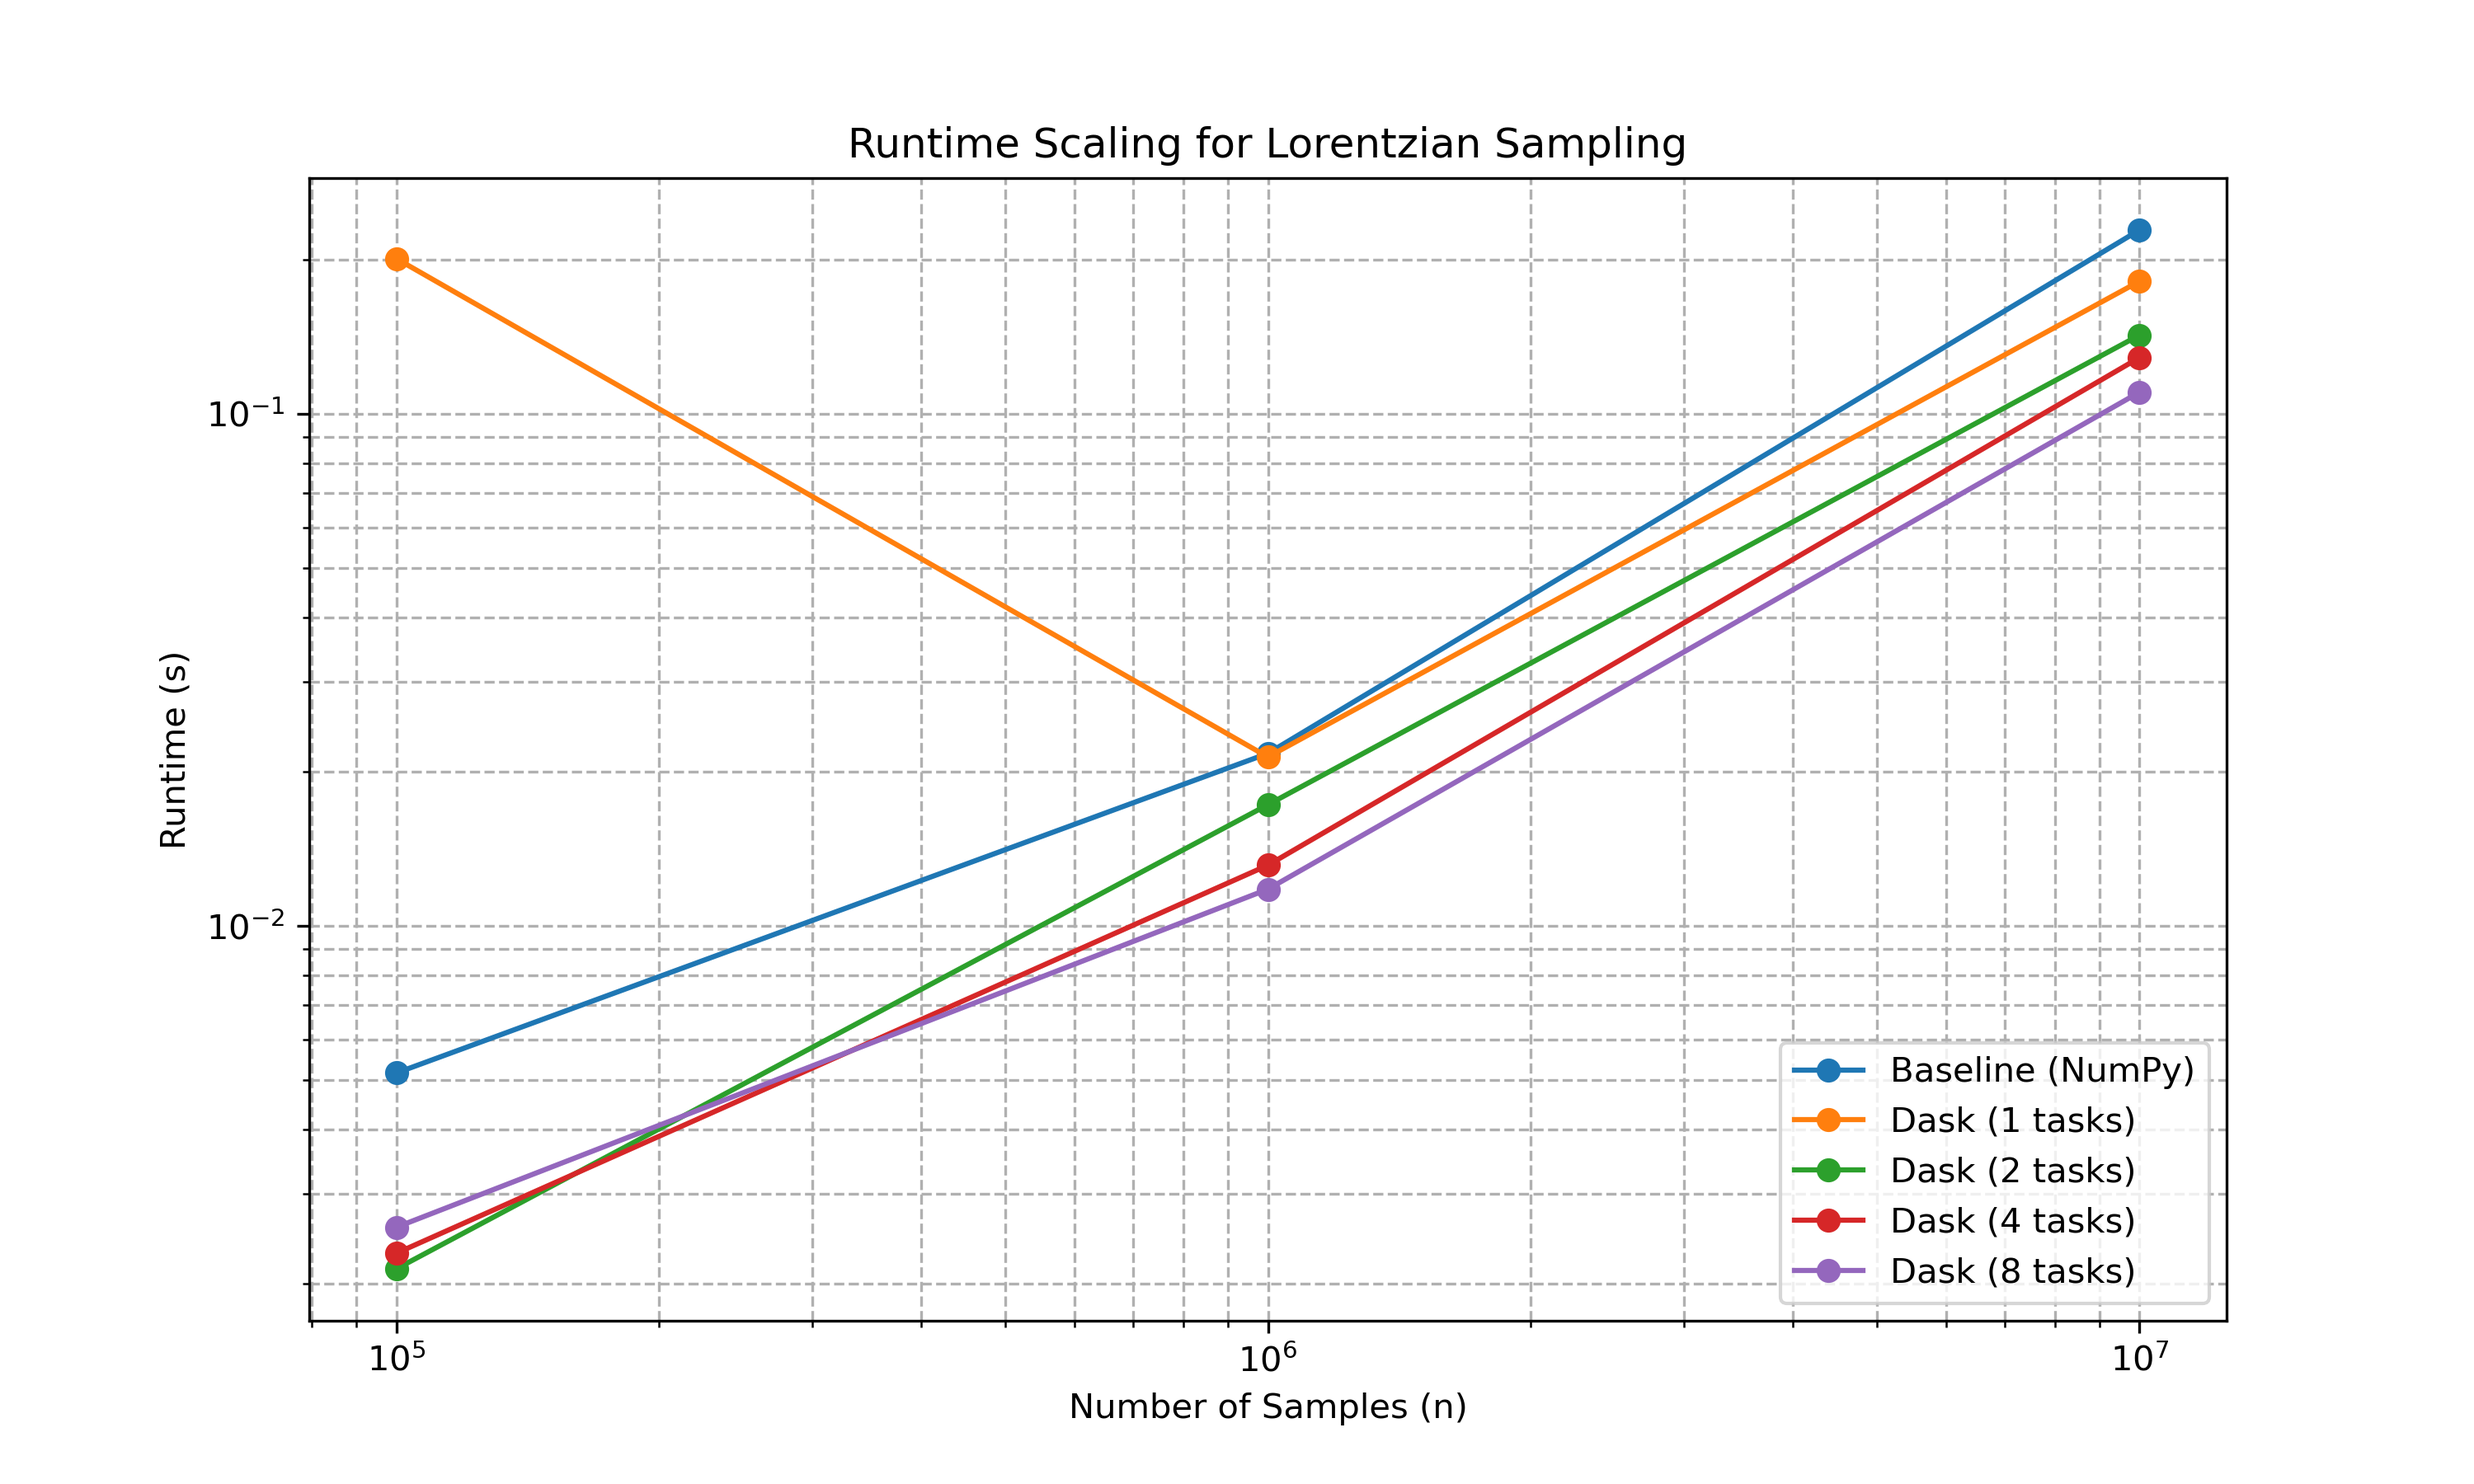
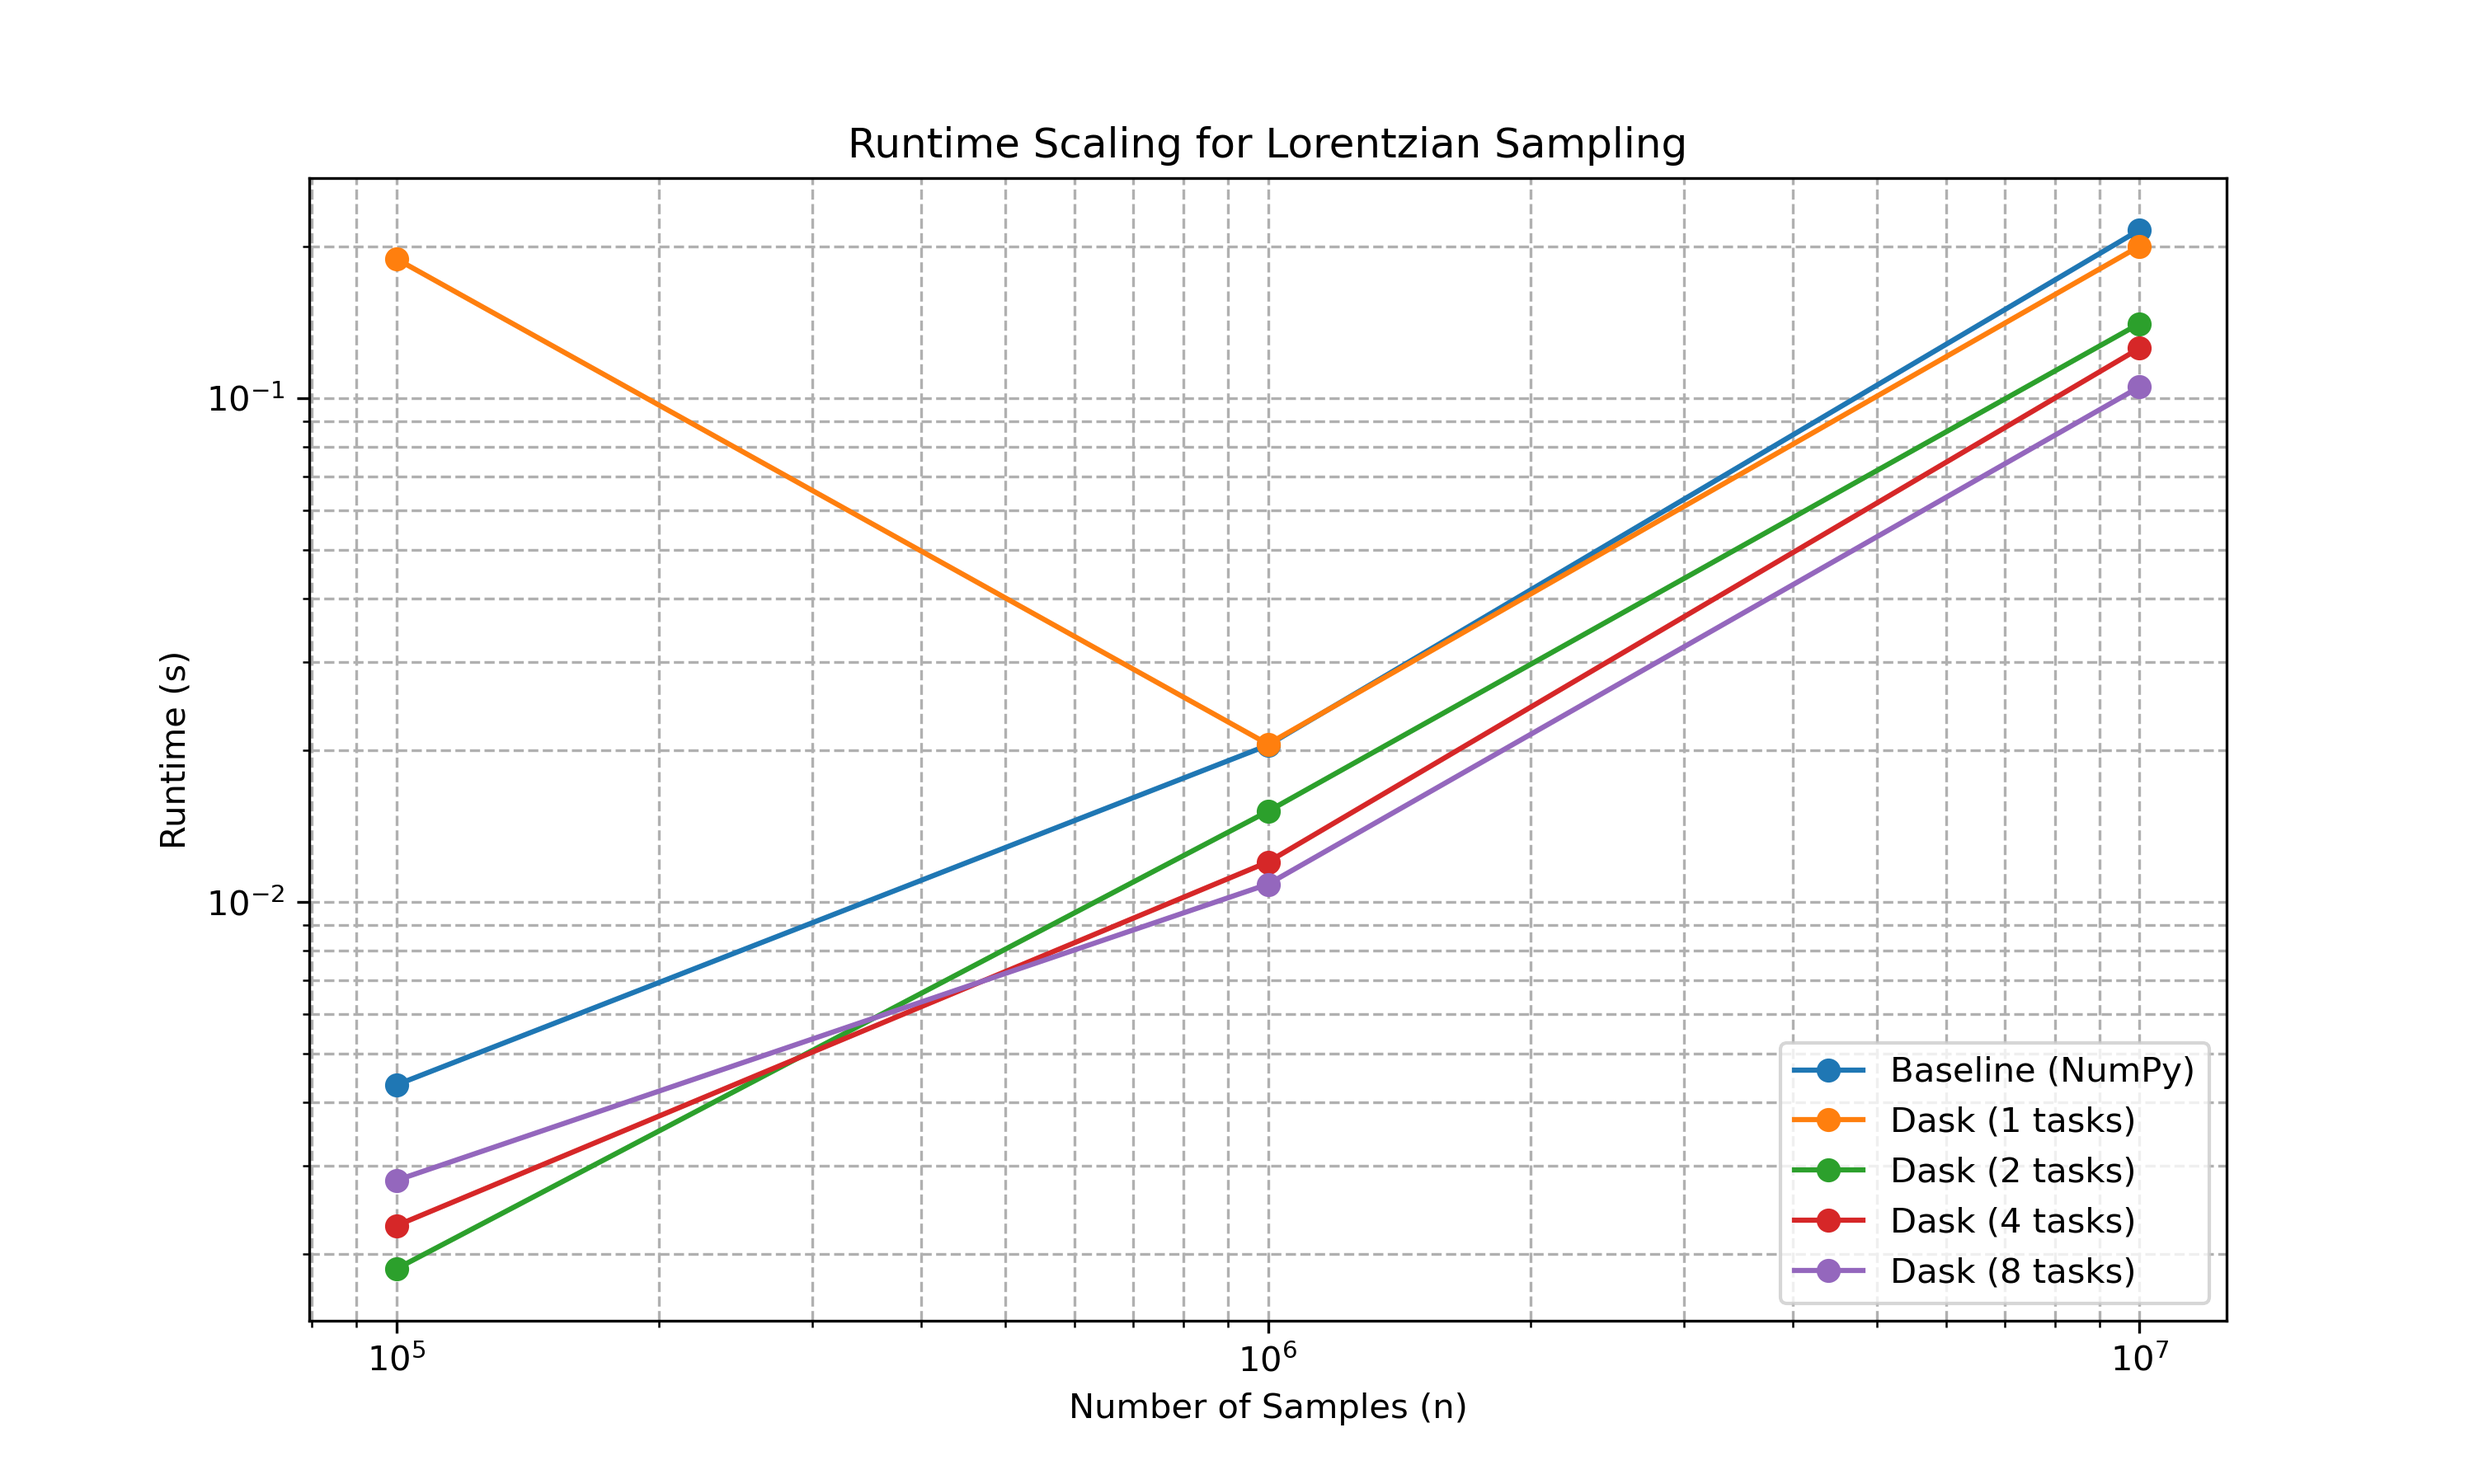
Update: [files and SSs as of x attempts]

diff --git a/benchmark_parallel.py b/benchmark_parallel.py
@@ -1,68 +1,72 @@
 #!/usr/bin/env python
 # benchmark_parallel.py
+
 import time
 import numpy as np
 import matplotlib.pyplot as plt
-from dask_lorentz import run_dask, lorentzian_histogram
+from dask_lorentz import run_dask  # Your Dask wrapper function
+from lorentzian_histogram import lorentzian_histogram  # Baseline NumPy function
 
 def benchmark_function(func, n, **kwargs):
-    """
-    Benchmark the given function 'func' with sample size n.
-    Returns the runtime in seconds and the function result.
-    """
     start = time.perf_counter()
     result = func(n, **kwargs)
     end = time.perf_counter()
     return end - start, result
 
 def main():
-    # Define sample sizes (you can adjust these as needed)
-    sample_sizes = [10**i for i in range(5, 8)]  # e.g. 1e5, 1e6, 1e7 samples
-    # Concurrency levels to test for the Dask version:
-    n_tasks_values = [1, 2, 4, 8]
+    sample_sizes = [10**7, 10**8, 10**9]  # Adjust as needed
+    concurrency_levels = [1, 2, 4, 8]       # Number of tasks/workers
     bins = 100
     xmin, xmax = -10, 10
 
-    # Lists to store baseline (single-threaded) times
+    # Baseline: pure NumPy
     baseline_times = []
-    # Dictionary to store Dask times for each concurrency level
-    dask_times = {n_tasks: [] for n_tasks in n_tasks_values}
-
-    print("Starting benchmarking...\n")
     for n in sample_sizes:
-        print(f"Testing sample size: n = {n}")
-        # Baseline using pure NumPy (runs the base function)
-        t_base, _ = benchmark_function(lorentzian_histogram, n, bins=bins, xmin=xmin, xmax=xmax)
-        baseline_times.append(t_base)
-        print(f"  Baseline (NumPy): {t_base:.4f} s")
-        # Benchmark Dask for different numbers of tasks
-        for n_tasks in n_tasks_values:
-            t_dask, _ = benchmark_function(run_dask, n, n_tasks=n_tasks, bins=bins, xmin=xmin, xmax=xmax)
-            dask_times[n_tasks].append(t_dask)
-            print(f"  Dask with {n_tasks} tasks: {t_dask:.4f} s")
-        print()
+        t, _ = benchmark_function(lorentzian_histogram, n, bins=bins, xmin=xmin, xmax=xmax)
+        baseline_times.append(t)
+        print(f"Baseline for n={n}: {t:.4f} s")
 
-    # Plot Runtime vs. Number of Samples
+    # For one concurrency method (Dask in this example)
+    dask_times = {lvl: [] for lvl in concurrency_levels}
+    for n in sample_sizes:
+        for lvl in concurrency_levels:
+            t, _ = benchmark_function(run_dask, n, n_tasks=lvl, bins=bins, xmin=xmin, xmax=xmax)
+            dask_times[lvl].append(t)
+            print(f"Dask with {lvl} tasks for n={n}: {t:.4f} s")
+
+    # Save results to a CSV file
+    import pandas as pd
+    data = []
+    for i, n in enumerate(sample_sizes):
+        row = {"n": n, "Baseline": baseline_times[i]}
+        for lvl in concurrency_levels:
+            row[f"Dask_{lvl}"] = dask_times[lvl][i]
+        data.append(row)
+    df = pd.DataFrame(data)
+    df.to_csv("benchmark_results.csv", index=False)
+    print("Benchmark results saved to benchmark_results.csv")
+
+    # Plot Runtime vs. Sample Size (log-log plot)
     plt.figure(figsize=(10,6))
     plt.loglog(sample_sizes, baseline_times, marker='o', label='Baseline (NumPy)')
-    for n_tasks in n_tasks_values:
-        plt.loglog(sample_sizes, dask_times[n_tasks], marker='o', label=f'Dask ({n_tasks} tasks)')
+    for lvl in concurrency_levels:
+        plt.loglog(sample_sizes, dask_times[lvl], marker='o', label=f'Dask ({lvl} tasks)')
     plt.xlabel('Number of Samples (n)')
     plt.ylabel('Runtime (s)')
     plt.title('Runtime Scaling for Lorentzian Sampling')
     plt.legend()
-    plt.grid(True, which="both", linestyle="--")
+    plt.grid(True, which="both", ls="--")
     plt.savefig("runtime_vs_n.png", dpi=300)
     plt.show()
 
-    # Plot Speedup (Baseline / Dask) vs. Number of Samples
+    # Plot Speedup: Baseline time / Dask time
     plt.figure(figsize=(10,6))
-    for n_tasks in n_tasks_values:
-        speedups = np.array(baseline_times) / np.array(dask_times[n_tasks])
-        plt.plot(sample_sizes, speedups, marker='o', label=f'Dask ({n_tasks} tasks)')
+    for lvl in concurrency_levels:
+        speedup = np.array(baseline_times) / np.array(dask_times[lvl])
+        plt.plot(sample_sizes, speedup, marker='o', label=f'Dask ({lvl} tasks)')
     plt.xlabel('Number of Samples (n)')
     plt.ylabel('Speedup (Baseline / Dask)')
-    plt.title('Speedup Relative to Baseline for Different Concurrency Levels')
+    plt.title('Speedup Relative to Baseline')
     plt.legend()
     plt.grid(True)
     plt.savefig("speedup_vs_n.png", dpi=300)

diff --git a/bench_parr_comp.py b/bench_parr_comp.py
@@ -1,0 +1,81 @@
+#!/usr/bin/env python
+import time
+import numpy as np
+import matplotlib.pyplot as plt
+import pandas as pd
+from dask_lorentz import run_dask  # Dask-based parallel approach
+from lorentzian_histogram import lorentzian_histogram  # Baseline NumPy implementation
+
+def benchmark_function(func, n, **kwargs):
+    """Measure runtime of func(n, **kwargs) and return (runtime, result)."""
+    start = time.perf_counter()
+    result = func(n, **kwargs)
+    end = time.perf_counter()
+    return end - start, result
+
+def main():
+    # Define sample sizes (you can adjust these based on your HPC resources)
+    sample_sizes = [10**5, 10**6, 10**7, 10**8]
+    # Define concurrency levels (number of tasks/workers)
+    concurrency_levels = [1, 2, 4, 8, 16]
+    bins = 100
+    xmin, xmax = -10, 10
+
+    # First, benchmark the baseline (pure NumPy)
+    print("Running baseline benchmarks (pure NumPy)...")
+    baseline_times = {}
+    for n in sample_sizes:
+        t, _ = benchmark_function(lorentzian_histogram, n, bins=bins, xmin=xmin, xmax=xmax)
+        baseline_times[n] = t
+        print(f"Baseline for n={n}: {t:.4f} s")
+
+    # Now, benchmark the Dask version for each concurrency level
+    results_list = []
+    for n in sample_sizes:
+        for n_tasks in concurrency_levels:
+            t, _ = benchmark_function(run_dask, n, n_tasks=n_tasks, bins=bins, xmin=xmin, xmax=xmax)
+            speedup = baseline_times[n] / t if t > 0 else np.nan
+            results_list.append({
+                'n': n,
+                'n_tasks': n_tasks,
+                'Runtime': t,
+                'Baseline': baseline_times[n],
+                'Speedup': speedup
+            })
+            print(f"Dask with {n_tasks} tasks for n={n}: {t:.4f} s, Speedup: {speedup:.2f}")
+
+    # Save results to CSV
+    df = pd.DataFrame(results_list)
+    df.to_csv("benchmark_scaling_results.csv", index=False)
+    print("Benchmark results saved to benchmark_scaling_results.csv")
+
+    # Plot: Runtime vs. Number of Samples
+    plt.figure(figsize=(10,6))
+    for n_tasks in concurrency_levels:
+        subset = df[df['n_tasks'] == n_tasks]
+        plt.loglog(subset['n'], subset['Runtime'], marker='o', label=f'Dask ({n_tasks} tasks)')
+    # Plot baseline as dashed line
+    plt.loglog(list(baseline_times.keys()), list(baseline_times.values()), marker='o', linestyle='--', label='Baseline (NumPy)')
+    plt.xlabel('Number of Samples (n)')
+    plt.ylabel('Runtime (s)')
+    plt.title('Runtime Scaling for Lorentzian Sampling')
+    plt.legend()
+    plt.grid(True, which="both", ls="--")
+    plt.savefig("runtime_scaling.png", dpi=300)
+    plt.show()
+
+    # Plot: Speedup vs. Number of Samples
+    plt.figure(figsize=(10,6))
+    for n_tasks in concurrency_levels:
+        subset = df[df['n_tasks'] == n_tasks]
+        plt.plot(subset['n'], subset['Speedup'], marker='o', label=f'Dask ({n_tasks} tasks)')
+    plt.xlabel('Number of Samples (n)')
+    plt.ylabel('Speedup (Baseline Runtime / Dask Runtime)')
+    plt.title('Speedup Relative to Baseline')
+    plt.legend()
+    plt.grid(True)
+    plt.savefig("speedup_scaling.png", dpi=300)
+    plt.show()
+
+if __name__ == "__main__":
+    main()
